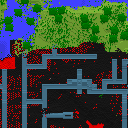
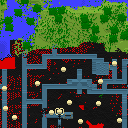
updated

diff --git a/MCserver/map/theme.css b/MCserver/map/theme.css
@@ -44,5 +44,5 @@ body {
 	text-align: center;
 	background-color: #404040;
 	color: #ffffff;
-	font-size: 0.75rem;
+	font-size: 0.5rem;
 }

diff --git a/MCserver/map/genImg.py b/MCserver/map/genImg.py
@@ -8,7 +8,7 @@ import json
 palette=[(0,0,0,0),(127, 178, 56,255),(247, 233, 163,255),(199, 199, 199,255),(255, 0, 0,255),(160, 160, 255,255),(167, 167, 167,255),(0, 124, 0,255),(255, 255, 255,255),(164, 168, 184,255),(151, 109, 77,255),(112, 112, 112,255),(64, 64, 255,255),(143, 119, 72,255),(255, 252, 245,255),(216, 127, 51,255),(178, 76, 216,255),(102, 153, 216,255),(229, 229, 51,255),(127, 204, 25,255),(242, 127, 165,255),(76, 76, 76,255),(153, 153, 153,255),(76, 127, 153,255),(127, 63, 178,255),(51, 76, 178,255),(102, 76, 51,255),(102, 127, 51,255),(153, 51, 51,255),(25, 25, 25,255),(250, 238, 77,255),(92, 219, 213,255),(74, 128, 255,255),(0, 217, 58,255),(129, 86, 49,255),(112, 2, 0,255),(209, 177, 161,255),(159, 82, 36,255),(149, 87, 108,255),(112, 108, 138,255),(186, 133, 36,255),(103, 117, 53,255),(160, 77, 78,255),(57, 41, 35,255),(135, 107, 98,255),(87, 92, 92,255),(122, 73, 88,255),(76, 62, 92,255),(76, 50, 35,255),(76, 82, 42,255),(142, 60, 46,255),(37, 22, 16,255)]
 shades=[180,220,255,135]
 
-exclusions=[390,517,81,455,456,77,64,265,869,1298,759,780]
+exclusions=[390,517,81,455,456,77,64,265,869,1298,759,780,468]
 
 path='/home/sam/minecraftServer/world/data/'
 if(len(argv)>3):
